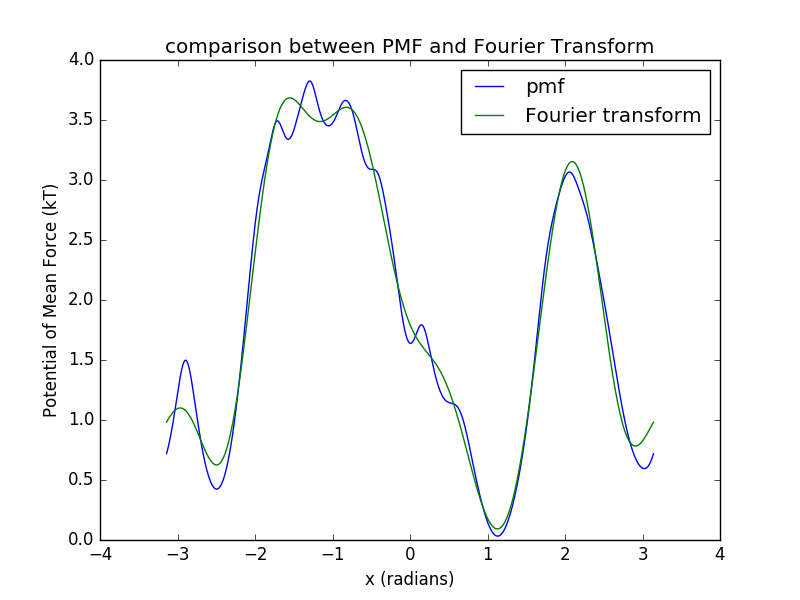
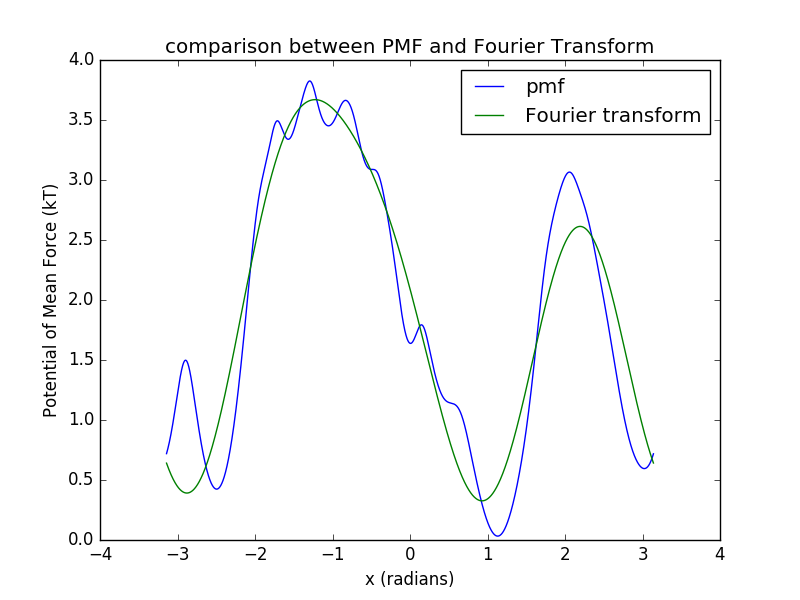
torsion fit check

diff --git a/single-molecule-property-generation/torsion_fitting/fitting_example.py b/single-molecule-property-generation/torsion_fitting/fitting_example.py
@@ -53,7 +53,7 @@ def ft(x, cn, Nh):
    return f.sum()+cn[0]
 
 # generate Fourier series (complex)
-Ns = 6 # needs to be adjusted 
+Ns = 3 # needs to be adjusted 
 cf = np.zeros(Ns+1,dtype=complex)
 for i in range(Ns+1):
     cf[i] = cn(i,pmf)
